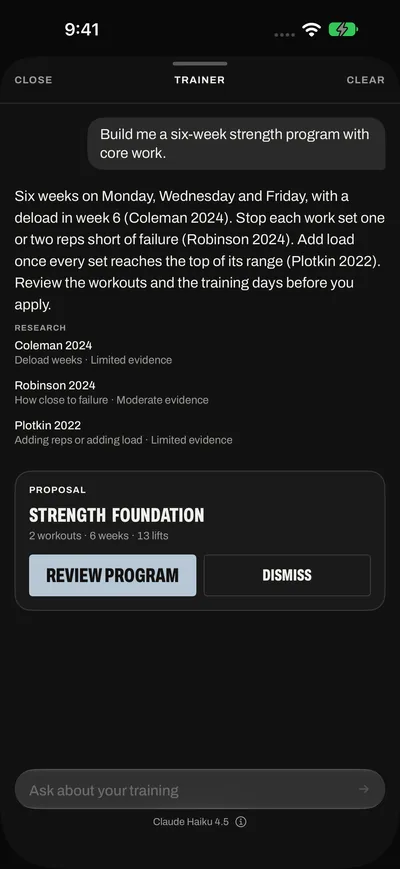
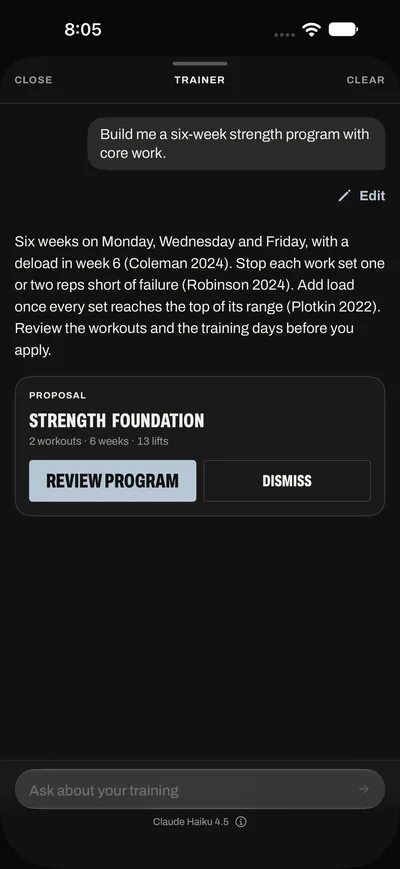
Site at 161ed95: Record the Review program release: TestFlight 2610100811, mcp v88

diff --git a/trainer/index.html b/trainer/index.html
@@ -50,7 +50,7 @@
     <nav class="toc" aria-label="On this page"><h2>On this page</h2><ul><li><a href="#open">Open the trainer</a></li><li><a href="#build">Build a program</a></li><li><a href="#next">Review next targets</a></li><li><a href="#session">Change a session</a></li><li><a href="#rules">Your notes and rules</a></li><li><a href="#who">Models and allowance</a></li><li><a href="#data">Privacy</a></li><li><a href="#faq">Troubleshooting</a></li></ul></nav>
     <article class="article">
       <section id="open"><h2>Open the trainer</h2><p>Tap <strong>Ask trainer</strong> on Today. To build a plan, open <strong>Plan &gt; New block</strong> or <strong>New workout</strong> and choose the trainer. You can also open the trainer during a session.</p><p>The trainer needs Block Pro and iOS 27. An eligible new account may be offered days of Pro. Settings &gt; AI &gt; AI trainer shows your access and messages left.</p><p id="can">It can read your training log, build workouts and blocks, change unlogged sets, and explain your results. It cannot cancel a subscription or delete your account.</p></section>
-      <section id="build"><h2>Build a program</h2><ol><li>Open <strong>Plan &gt; New block &gt; Build with trainer</strong>. Answer the questions about your goal, week and equipment. Saved answers are prefilled.</li><li>Review your answers and first day, then tap <strong>Build draft</strong>. To discuss an idea first, choose <strong>Talk it through</strong> on New block.</li><li>Tap <strong>Review program</strong>. Check the workouts, sets, training days, and weeks. Edit anything you want to change before you tap <strong>Apply program</strong>.</li></ol><blockquote class="example" id="ask"><p>“Build a six-week strength program. Four days a week, 60 minutes per session. Add core work.”</p></blockquote><p>A program can use 1 to 16 weeks, with a deload when the program calls for one. For a rolling cycle, the trainer writes the workouts to fit that schedule.</p><figure class="shot"><img src="/assets/img/app/trainer-400.webp" srcset="/assets/img/app/trainer-400.webp 400w, /assets/img/app/trainer-800.webp 800w" sizes="(min-width: 768px) 320px, 80vw" width="1320" height="2868" alt="The trainer proposes a strength program with cited research and a Review program button." loading="lazy" decoding="async"><figcaption>A program proposal, ready to review.</figcaption></figure></section>
+      <section id="build"><h2>Build a program</h2><ol><li>Open <strong>Plan &gt; New block &gt; Build with trainer</strong>. Answer the questions about your goal, week and equipment. Saved answers are prefilled.</li><li>Review your answers and first day, then tap <strong>Build draft</strong>. To discuss an idea first, choose <strong>Talk it through</strong> on New block.</li><li>Tap <strong>Review program</strong>. It starts with the trainer's reasons for the lifts, then shows one workout at a time: tap a day, or <strong>Next</strong>. Tap a lift to open its page. Check the sets, training days, and weeks. Edit anything you want to change before you tap <strong>Apply program</strong>.</li></ol><blockquote class="example" id="ask"><p>“Build a six-week strength program. Four days a week, 60 minutes per session. Add core work.”</p></blockquote><p>A program can use 1 to 16 weeks, with a deload when the program calls for one. For a rolling cycle, the trainer writes the workouts to fit that schedule.</p><figure class="shot"><img src="/assets/img/app/trainer-400.webp" srcset="/assets/img/app/trainer-400.webp 400w, /assets/img/app/trainer-800.webp 800w" sizes="(min-width: 768px) 320px, 80vw" width="1320" height="2868" alt="The trainer proposes a strength program with cited research and a Review program button." loading="lazy" decoding="async"><figcaption>A program proposal, ready to review.</figcaption></figure></section>
       <section id="next"><h2>Review next targets</h2><p>After you save a session, the trainer can propose each lift's next load and reps. It reads the loads, reps, effort, notes, rep ranges, and week of the training block. The result appears on the finish page, in the chat, and on Today while it waits for review.</p><p>A review waits when the trainer is busy and survives closing the app. The saved session shows its review status and a retry action if it cannot finish.</p><p>Each changed lift shows its current sets, proposed sets, and a reason. <strong>Approve</strong> saves that line to the workout. <strong>Reject</strong> leaves it unchanged. Approve all and Reject all decide the remaining lines. A hold needs no decision.</p><p>The app never changes a load by itself. Until you approve a new target, the next session starts at the numbers you lifted with Pro, or at the workout's numbers without it.</p><p>Read <a href="/progression/">lamps and next targets</a> for the details, including deloads and set feedback.</p></section>
       <section id="session"><h2>Change a session or workout</h2><p>Between sets, ask for a swap, a lighter session, or a lift added or removed. Say whether it is for <strong>today only</strong> or <strong>the workout too</strong>. The trainer does not change a lift after you have logged a set for it in the open session.</p><blockquote class="example"><p>“The rack is taken. Replace back squats with a machine lift for today.”</p></blockquote><p id="plan">A change to a saved workout opens with <strong>Review workout</strong>. The review lists the old and new sets. Check it, then apply it. Saving a workout change does not start a session. If the proposal also changes today's session, the review includes both parts.</p><p>For a one-session change, check the proposal before applying it. Dismiss leaves your plan as it is.</p></section>
       <section id="rules"><h2>Your notes and rules</h2><p><strong>About you</strong> holds your goal, equipment, schedule, and lifts to avoid. Your rules file holds preferences you want the trainer to use again. A lift's note is the place for a specific request, such as a warm-up pattern or a load to try next time.</p><p>Ask the trainer to add or change a rule. Review the proposal before saving it. A note about pain or fatigue also helps it explain why a lift should hold.</p><p id="why">The trainer uses research cards with sources and can search the web when needed. Its citations explain the evidence behind a suggestion. They do not guarantee a result. It gives no medical advice; for pain or an injury, stop that movement and seek appropriate care.</p></section>
